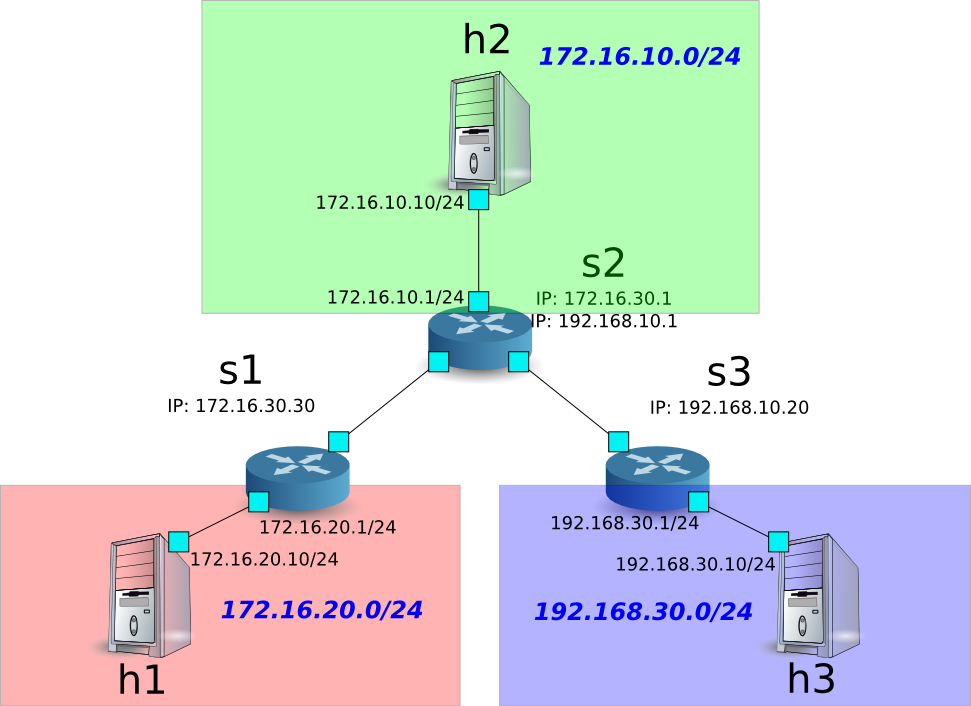
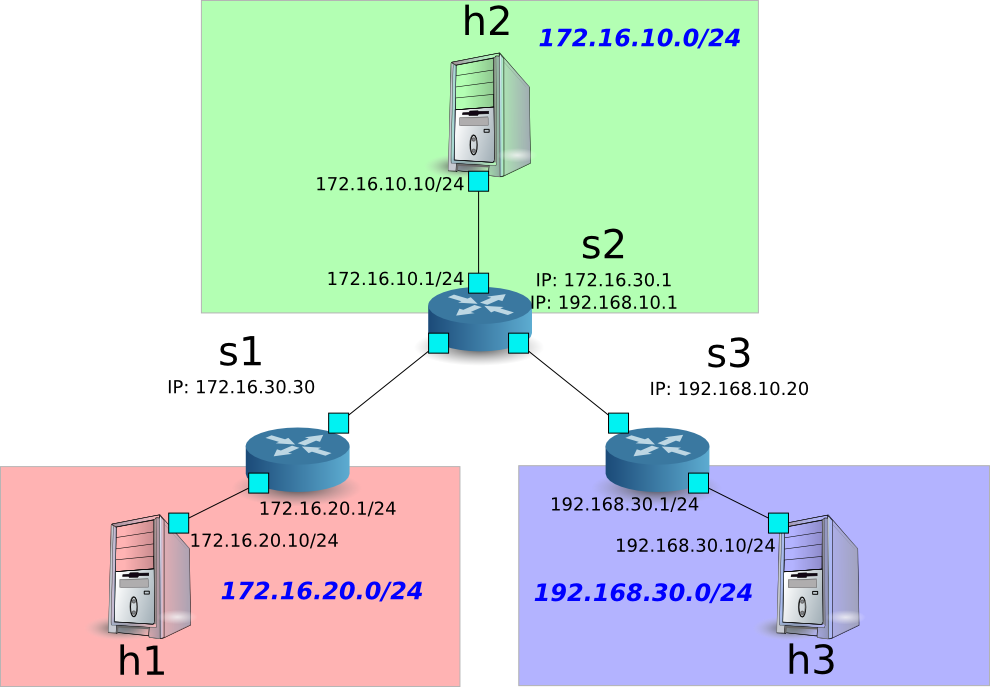
ja/html: 1ac2505 rest_router: correct image layer

diff --git a/ja/html/rest_router.html b/ja/html/rest_router.html
@@ -375,7 +375,7 @@ OFPST_FLOW reply (OF1.3) (xid=0x2):
 <div class="console highlight-python"><pre>root@ryu-vm:~# ip route add default via 192.168.30.1</pre>
 </div>
 <p>この時点でのトポロジは、次のようなものになります。</p>
-<a class="reference internal image-reference" href="_images/fig32.png"><img alt="_images/fig32.png" class="align-center" src="_images/fig32.png" style="width: 776.8px; height: 564.8px;" /></a>
+<a class="reference internal image-reference" href="_images/fig32.png"><img alt="_images/fig32.png" class="align-center" src="_images/fig32.png" style="width: 792.0px; height: 549.6px;" /></a>
 </div>
 <div class="section" id="id5">
 <h3>デフォルトルートの設定<a class="headerlink" href="#id5" title="このヘッドラインへのパーマリンク">¶</a></h3>
